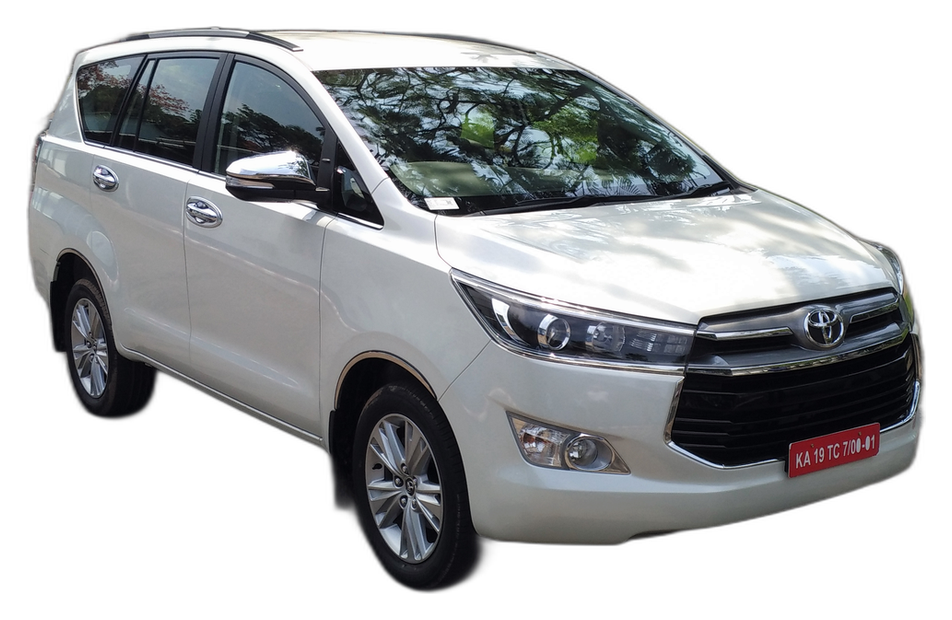
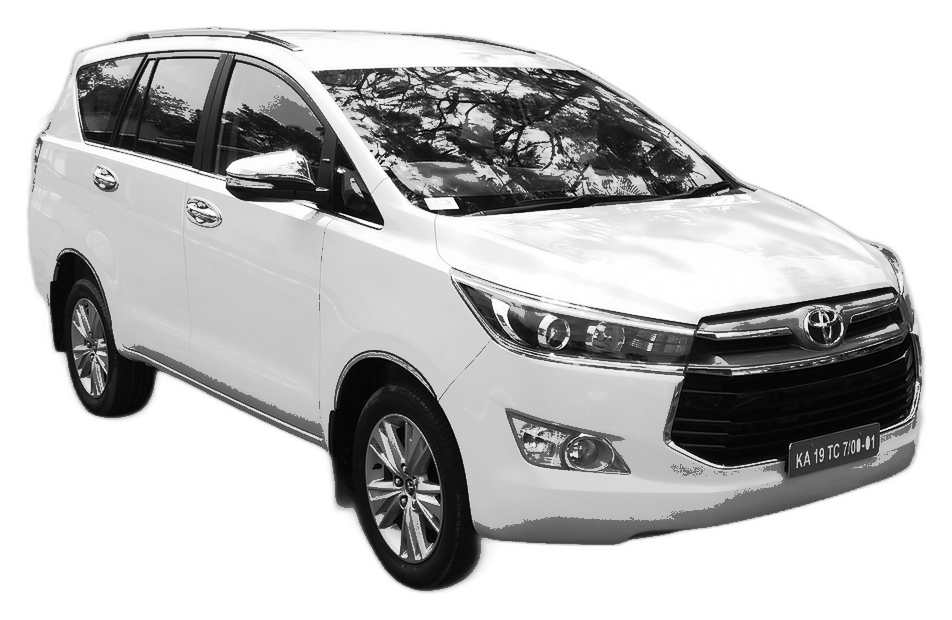
Replace Dzire image with a right-facing side view; unify car colours
- fleet-sedan-dzire.png was a three-quarter angle; replaced with a clean
  white sedan side profile facing right (black backdrop cut to transparent,
  composited on white)
- Applied a uniform "match white" pass (desaturate + lift) to all four
  fleet cars so they share one neutral white tone
- Cache-bust all four images (?v=5)

Changed region(s): [[0.0305, 0.0306, 0.9748, 0.9194], [0.3351, 0.6742, 0.4569, 0.9194]]

diff --git a/index.html b/index.html
@@ -1090,7 +1090,7 @@
         <div class="car-item-card" data-category="sedan">
           <div class="car-badge">Bestseller</div>
           <div class="car-visual-box">
-            <img src="images/fleet-sedan-dzire.png?v=4" alt="White Maruti Dzire sedan with chilled AC" class="car-photo-img" loading="lazy" />
+            <img src="images/fleet-sedan-dzire.png?v=5" alt="White Maruti Dzire sedan side view" class="car-photo-img" loading="lazy" />
           </div>
           <div class="car-body-content">
             <h3 class="car-real-name">Maruti Suzuki Dzire / Toyota Etios</h3>
@@ -1117,7 +1117,7 @@
         <div class="car-item-card" data-category="suv">
           <div class="car-badge">Family Favorite</div>
           <div class="car-visual-box">
-            <img src="images/fleet-suv-ertiga.png?v=4" alt="White Maruti Ertiga family SUV with dual AC" class="car-photo-img" loading="lazy" />
+            <img src="images/fleet-suv-ertiga.png?v=5" alt="White Maruti Ertiga family SUV side view" class="car-photo-img" loading="lazy" />
           </div>
           <div class="car-body-content">
             <h3 class="car-real-name">Maruti Ertiga / Kia Carens</h3>
@@ -1144,7 +1144,7 @@
         <div class="car-item-card" data-category="luxury">
           <div class="car-badge vip-badge">Executive Class</div>
           <div class="car-visual-box">
-            <img src="images/fleet-mpv-innova.png" alt="Toyota Innova Crysta luxury MPV with captain seats" class="car-photo-img" loading="lazy" />
+            <img src="images/fleet-mpv-innova.png?v=5" alt="White Toyota Innova MPV with captain seats" class="car-photo-img" loading="lazy" />
           </div>
           <div class="car-body-content">
             <h3 class="car-real-name">Toyota Innova Crysta / Hycross</h3>
@@ -1171,7 +1171,7 @@
         <div class="car-item-card" data-category="tempo">
           <div class="car-badge">Group Tour</div>
           <div class="car-visual-box">
-            <img src="images/fleet-tempo-traveller.png" alt="Force Tempo Traveller 17, 20 and 25 seater group van" class="car-photo-img" loading="lazy" />
+            <img src="images/fleet-tempo-traveller.png?v=5" alt="White Force Tempo Traveller 17, 20 and 25 seater group van" class="car-photo-img" loading="lazy" />
           </div>
           <div class="car-body-content">
             <h3 class="car-real-name">Force Tempo Traveller (17/20/25 Seater)</h3>
